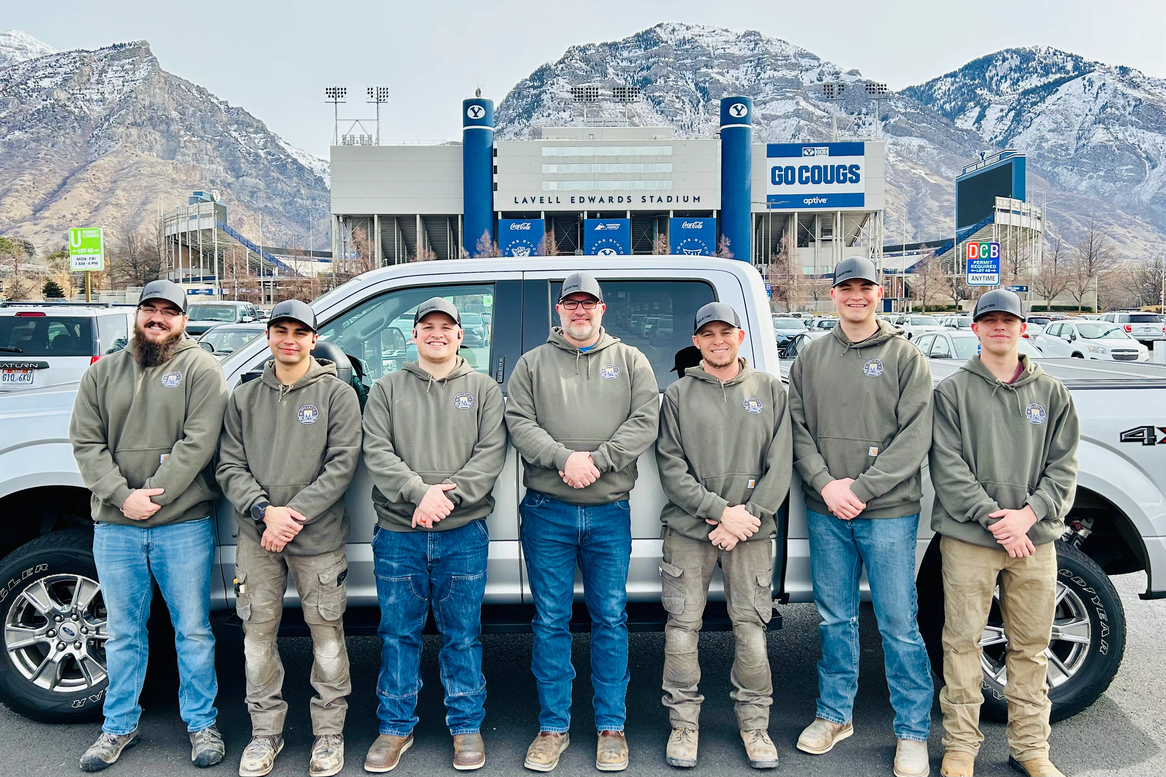
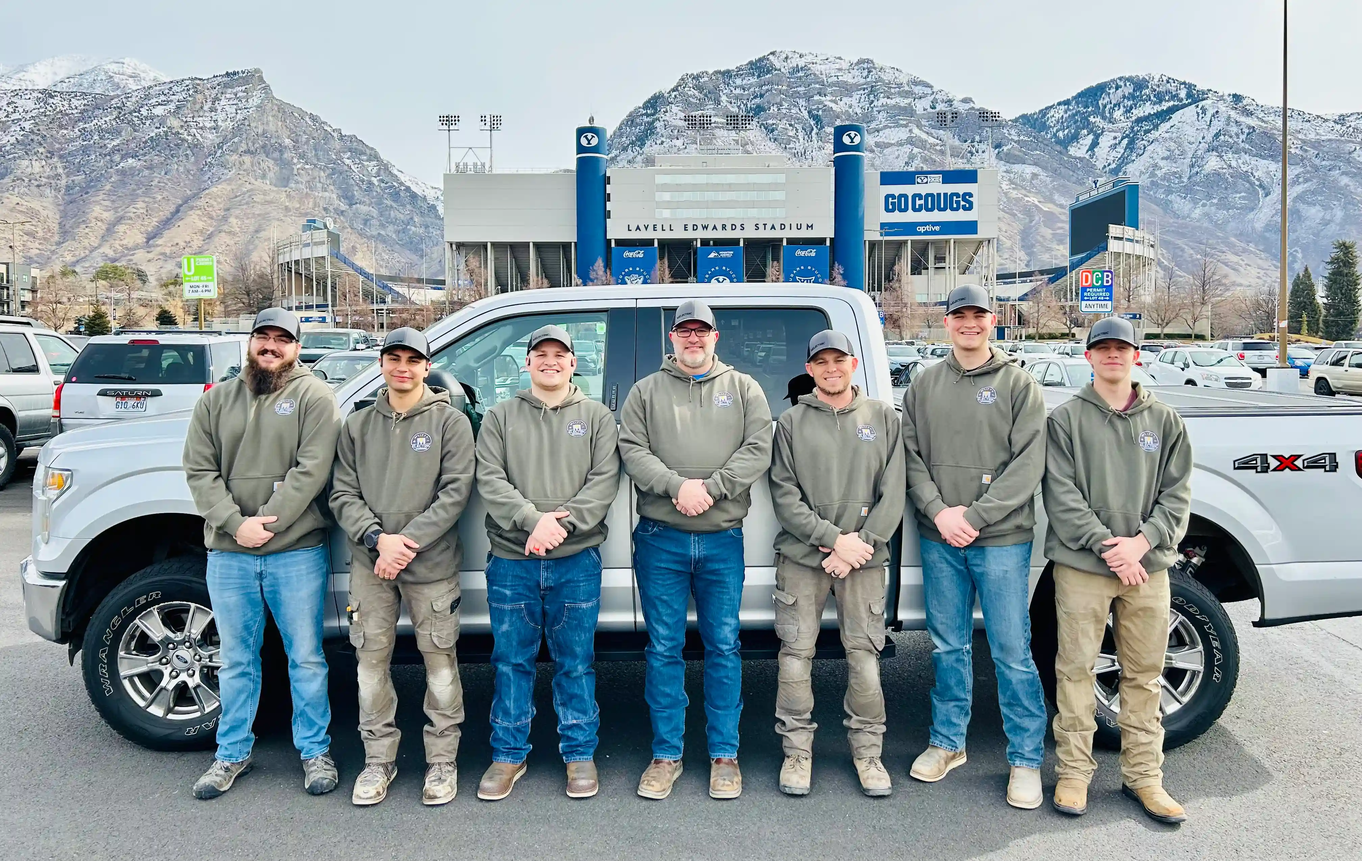
contact updates, biography

diff --git a/contact.html b/contact.html
@@ -41,11 +41,11 @@
                     <h1>Call Text or Email Us</h1>
                     <h3>Phone (Call or Text)</h3>
                     <i class="fa-solid fa-phone"></i>
-                    <a href="tel:+14352510358" id="call-button">(435)-251-0358</a>
+                    <a href="tel:+18013692625" id="call-button">(801) 369-2625</a>
 
                     <h3>Email</h3>
                     <i class="fa-solid fa-envelope"></i>
-                    <a href="mailto:jordanwjohns@gmail.com" id="email-button">jordanwjohns@gmail.com</a>
+                    <a href="mailto:matthew.baker@mclifty.com" id="email-button">matthew.baker@mclifty.com</a>
 
                     <h3>Address</h3>
                     <i class="fa-solid fa-map-pin"></i>
@@ -87,7 +87,7 @@
             <div id="footer" class="bg-dark text-white container-fluid d-flex align-items-center py-.5">
                 <img src="/resources/mclifty_logo_1.png" alt="Mclifty Logo" width="65" height="65" style="border-radius: 50%;"/>
                 <ul style="list-style-type: none;">
-                    <li id = "phone">Phone: 555-555-5555</li>
+                    <li id = "phone">Phone: (801) 369-2625</li>
                     <li>Email: matthew.baker@mclifty.com</li>
                     <li>Address: Provo, UT</li>
                     <li><a href="contact.html"> Contact</a></li>
@@ -98,43 +98,5 @@
 
         <script src="https://cdn.jsdelivr.net/npm/@popperjs/core@2.11.6/dist/umd/popper.min.js"></script>
         <script src="https://cdn.jsdelivr.net/npm/bootstrap@5.1.3/dist/js/bootstrap.min.js"></script>
-
-        <!-- <script>
-            function showOptions() {
-                const phoneNumber = "+1234567890"; // Replace with your number
-                const userChoice = confirm("Would you like to call? Press 'Cancel' to text.");
-                
-                if (userChoice) {
-                    window.location.href = "tel:" + phoneNumber;
-                } else {
-                    window.location.href = "sms:" + phoneNumber;
-                }
-            }
-        </script> -->
-        <!-- <script>
-            document.getElementById("contact-form").addEventListener("submit", async function(event) {
-                event.preventDefault();
-                
-                const formData = {
-                    name: document.getElementById("name").value,
-                    email: document.getElementById("email").value,
-                    phone: document.getElementById("phone").value,
-                    project: document.getElementById("project").value,
-                    message: document.getElementById("message").value
-                };
-            
-                const response = await fetch("/send-email", {
-                    method: "POST",
-                    headers: { "Content-Type": "application/json" },
-                    body: JSON.stringify(formData)
-                });
-            
-                if (response.ok) {
-                    alert("Message sent!");
-                } else {
-                    alert("Error sending message.");
-                }
-            });
-            </script> -->
     </body>
 </html>

diff --git a/about.html b/about.html
@@ -37,7 +37,7 @@
 
         <main>
             <div class="image-container">
-                <img src="/resources/team40.webp" alt="Mclifty Team"/>
+                <img src="/resources/team.webp" alt="Mclifty Team"/>
                 <div class="overlay-text">About Us</div>
             </div>
 
@@ -51,7 +51,7 @@
                 <div class = "icon-container">
                     <i class="fa-solid fa-dollar-sign"></i>
 
-                    <span>Set Pricing and Free Quote</span> 
+                    <span>Set Pricing and No Hidden Fees</span> 
                 </div>
 
                 <div class = "icon-container">
@@ -89,8 +89,13 @@
                 <div id="matt-text">
                     <h2>Matt Baker</h2>
                     <h5>Owner/Master Electrician</h5>
-                    <p>Matt is a master electrician with over 20 years of experience across a wide range of projects. 
-                        His commitment to excellence and dedication to delivering top-tier service ensures that every job meets the highest standards of quality and customer satisfaction.</p>
+                    <p>Born in Salt Lake City and raised in American Fork, Matt has been part of the local community his whole life. 
+                        He pursued his passion for electrical work early on, completing his journeyman schooling in 2012 and earning his master electrician’s license in 2020. 
+                        With nearly 20 years of experience, he founded McLifty in 2021 to provide reliable, high-quality electrical services with the freedom to put customers first.
+                    </p>
+                    <p>
+                        When he’s not on the job, Matt enjoys working with fireworks, a perfect blend of his passion for energy and craftsmanship.
+                    </p>
                 </div>
             </div>
 
@@ -101,7 +106,7 @@
                         Out team of skilled electricians is responsible for routine maintenance, repairs, and the installation of electrical infrastructure in a variety of campus facilities, from classrooms, lecture halls, and labs to the Wilkinson Student Center and various athletic complexes. 
                         The partnership between McLifty Electric and BYU reflects a long-standing commitment to integrity and reliability.</p>
                 </div>
-                <img id="byu-pic" src="/resources/byu.jpg" alt="BYU"/>
+                <img id="byu-pic" src="/resources/BYU copy.webp" alt="BYU"/>
             </div>
         
         </main>    
@@ -110,7 +115,7 @@
             <div id="footer" class="bg-dark text-white container-fluid d-flex align-items-center py-.5">
                 <img src="/resources/mclifty_logo_1.png" alt="Mclifty Logo" width="65" height="65" style="border-radius: 50%;"/>
                 <ul style="list-style-type: none;">
-                    <li id = "phone">Phone: 555-555-5555</li>
+                    <li id = "phone">Phone: (801) 369-2625</li>
                     <li>Email: matthew.baker@mclifty.com</li>
                     <li>Address: Provo, UT</li>
                     <li><a href="contact.html"> Contact</a></li>

diff --git a/commercial.html b/commercial.html
@@ -38,7 +38,7 @@
 
         <main>
             <div class="image-container">
-                <img src="/resources/commercial2.webp" alt="Electrician Working"/>
+                <img src="/resources/commercial.webp" alt="Electrician Working"/>
                 <div class="overlay-text">Commercial</div>
             </div>
 
@@ -106,7 +106,7 @@
             <div id="footer" class="bg-dark text-white container-fluid d-flex align-items-center py-.5">
                 <img src="/resources/mclifty_logo_1.png" alt="Mclifty Logo" width="65" height="65" style="border-radius: 50%;"/>
                 <ul style="list-style-type: none;">
-                    <li id = "phone">Phone: 555-555-5555</li>
+                    <li id = "phone">Phone: (801) 369-2625</li>
                     <li>Email: matthew.baker@mclifty.com</li>
                     <li>Address: Provo, UT</li>
                     <li><a href="contact.html"> Contact</a></li>

diff --git a/residential.html b/residential.html
@@ -38,7 +38,7 @@
 
         <main>
             <div class="image-container">
-                <img src="/resources/house2.webp" alt="Residential Houses"/>
+                <img src="/resources/house.webp" alt="Residential Houses"/>
                 <div class="overlay-text">Residential</div>
             </div>
 
@@ -103,7 +103,7 @@
             <div id="footer" class="bg-dark text-white container-fluid d-flex align-items-center py-.5">
                 <img src="/resources/mclifty_logo_1.png" alt="Mclifty Logo" width="65" height="65" style="border-radius: 50%;"/>
                 <ul style="list-style-type: none;">
-                    <li id = "phone">Phone: 555-555-5555</li>
+                    <li id = "phone">Phone: (801) 369-2625</li>
                     <li>Email: matthew.baker@mclifty.com</li>
                     <li>Address: Provo, UT</li>
                     <li><a href="contact.html"> Contact</a></li>

diff --git a/index.html b/index.html
@@ -103,7 +103,7 @@
             <div id="footer" class="bg-dark text-white container-fluid d-flex align-items-center py-.5">
                 <img src="/resources/mclifty_logo_1.png" alt="Mclifty Logo" width="65" height="65" style="border-radius: 50%;"/>
                 <ul style="list-style-type: none;">
-                    <li id = "phone">Phone: 555-555-5555</li>
+                    <li id = "phone">Phone: (801) 369-2625</li>
                     <li>Email: matthew.baker@mclifty.com</li>
                     <li>Address: Provo, UT</li>
                     <li><a href="contact.html"> Contact</a></li>
